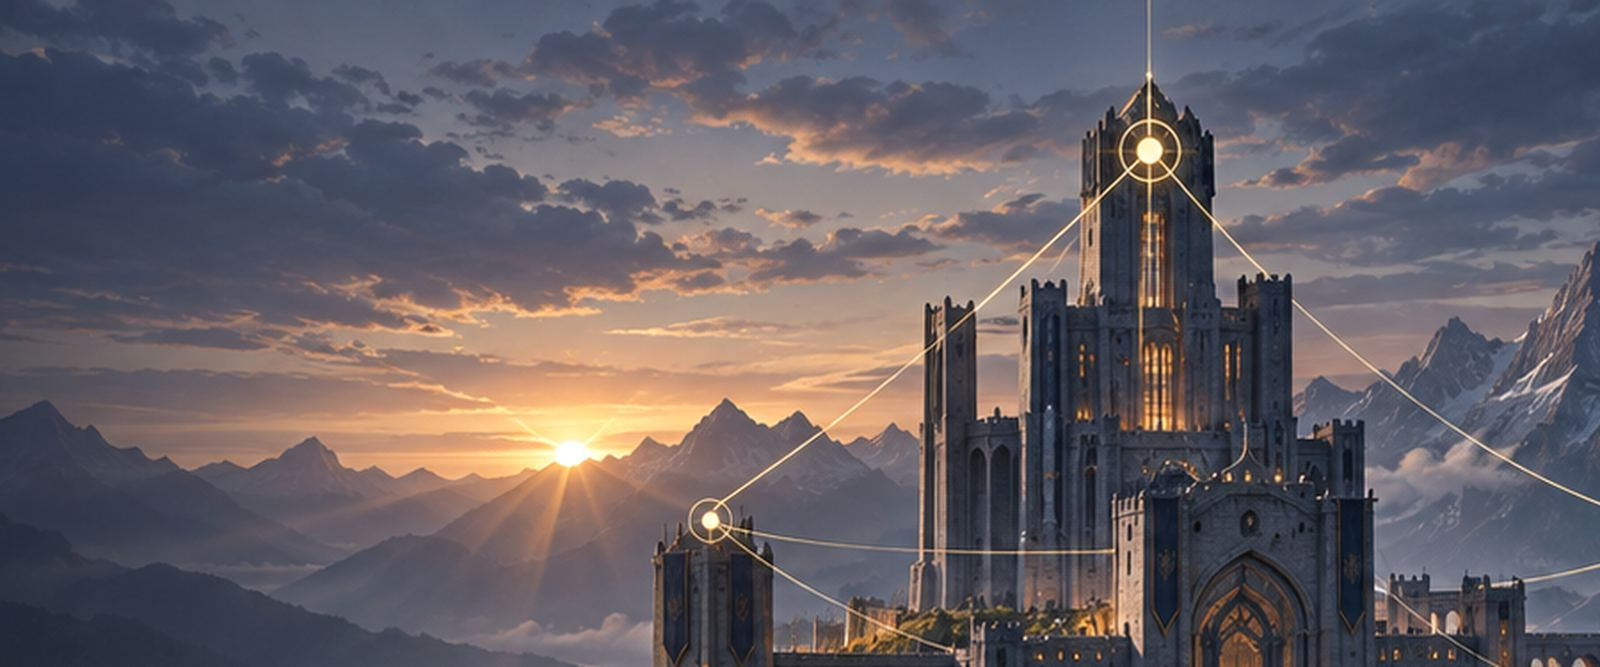
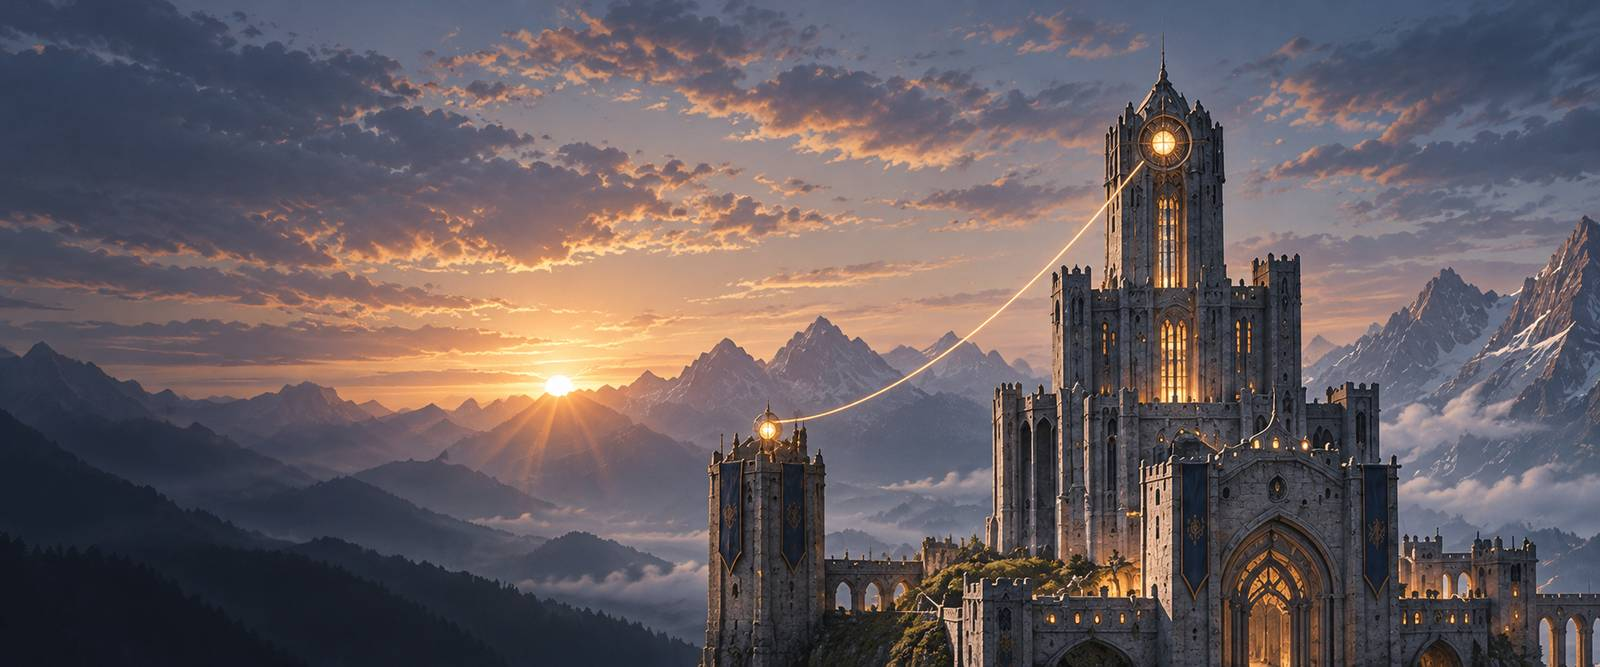
Bring parts 1 and 2 of the series to the series style
Keep the recognizable cover scenes while restoring their detail.
Add a sourced chronology and contract diagram, dated updates, and
approved context about the project's original world.
Align the series list, reading time, and release statistics.

Refs #276

diff --git a/notes/reviving-an-abandoned-mmo-server/index.html b/notes/reviving-an-abandoned-mmo-server/index.html
@@ -46,7 +46,7 @@
 </header>
 <div class="prose">
 <p>The last commit before mine landed on 15 July 2015. Its message was "README.md edited online with Bitbucket". Behind it lay nearly nine years of history: 8,044 commits by 24 people, starting in November 2006. They built an open-source server for Lineage II, an MMORPG whose Gracia Final client shipped in 2009. The upstream repositories are archived on GitHub now; one of them describes itself as the project "as it was when it was abandoned".</p>
-<p>I picked it up on 18 September 2026. Version 3.0.0 shipped on 11 October, twenty-four days later. This series is about what happened between those dates and why: which decisions I made, what each one cost, and how each one is checked.</p>
+<p>I picked it up on 18 September 2026 to see how far a 2009 codebase can be carried by today's engineering discipline. Version 3.0.0 shipped on 11 October, twenty-four days later. This series is about what happened between those dates and why: which decisions I made, what each one cost, and how each one is checked.</p>
 <h2>What I found</h2>
 <p>The code still compiled, mostly. It also carried every habit of a 2009 game server:</p>
 <ul>
@@ -84,6 +84,92 @@
 </tbody></table></div>
 <h2>The order of the work</h2>
 <p>Big rewrites fail because they change everything at once and prove nothing until the end. I went the other way: each step left a server that started and could be checked. The work came in two phases.</p>
+<figure class="series-diagram">
+<div class="arch timeline-graphic">
+<svg viewBox="0 0 1100 320" role="img" aria-labelledby="timeline-title timeline-desc" xmlns="http://www.w3.org/2000/svg">
+<title id="timeline-title">The order of the work</title>
+<desc id="timeline-desc">The first commit in 2006, the 2009 client and the last upstream commit in 2015. Eleven years of silence precede the revival in 2026: modernize in place, then Platform 3.0. Milestones are evenly spaced, not a linear time scale.</desc>
+<path class="wire" d="M 35 145 H 235 M 335 145 H 1065"/>
+<path class="timeline-silence" d="M 235 145 H 335"/>
+<text class="t t--small" x="285" y="285" text-anchor="middle">11 years of silence</text>
+<text class="t t--title" x="510" y="310" text-anchor="middle">modernize in place</text>
+<text class="t t--title" x="945" y="310" text-anchor="middle">Platform 3.0</text>
+<circle class="timeline-dot" cx="35" cy="145" r="5"/>
+<path class="wire" d="M 35 145 V 75"/>
+<text class="t" x="35" y="65" text-anchor="start">
+<tspan x="35" dy="0">First commit</tspan>
+<tspan x="35" dy="22">2006-11-15</tspan></text>
+<circle class="timeline-dot" cx="138" cy="145" r="5"/>
+<path class="wire" d="M 138 145 V 195"/>
+<text class="t" x="138" y="215" text-anchor="middle">
+<tspan x="138" dy="0">Gracia Final</tspan>
+<tspan x="138" dy="22">2009</tspan></text>
+<circle class="timeline-dot" cx="241" cy="145" r="5"/>
+<path class="wire" d="M 241 145 V 75"/>
+<text class="t" x="241" y="65" text-anchor="middle">
+<tspan x="241" dy="0">Last upstream</tspan>
+<tspan x="241" dy="19">commit</tspan>
+<tspan x="241" dy="22">2015-07-15</tspan></text>
+<circle class="timeline-dot" cx="344" cy="145" r="5"/>
+<path class="wire" d="M 344 145 V 195"/>
+<text class="t" x="344" y="215" text-anchor="middle">
+<tspan x="344" dy="0">Revival</tspan>
+<tspan x="344" dy="22">2026-09-18</tspan></text>
+<circle class="timeline-dot" cx="447" cy="145" r="5"/>
+<path class="wire" d="M 447 145 V 75"/>
+<text class="t" x="447" y="65" text-anchor="middle">
+<tspan x="447" dy="0">1.4.0</tspan>
+<tspan x="447" dy="22">2026-09-25</tspan></text>
+<circle class="timeline-dot" cx="550" cy="145" r="5"/>
+<path class="wire" d="M 550 145 V 195"/>
+<text class="t" x="550" y="215" text-anchor="middle">
+<tspan x="550" dy="0">1.5</tspan>
+<tspan x="550" dy="22">2026-09-29</tspan></text>
+<circle class="timeline-dot" cx="653" cy="145" r="5"/>
+<path class="wire" d="M 653 145 V 75"/>
+<text class="t" x="653" y="65" text-anchor="middle">
+<tspan x="653" dy="0">2.0.0</tspan>
+<tspan x="653" dy="22">2026-09-30</tspan></text>
+<circle class="timeline-dot" cx="756" cy="145" r="5"/>
+<path class="wire" d="M 756 145 V 195"/>
+<text class="t" x="756" y="215" text-anchor="middle">
+<tspan x="756" dy="0">2.5.0</tspan>
+<tspan x="756" dy="22">2026-10-05</tspan></text>
+<circle class="timeline-dot" cx="859" cy="145" r="5"/>
+<path class="wire" d="M 859 145 V 75"/>
+<text class="t" x="859" y="65" text-anchor="middle">
+<tspan x="859" dy="0">Platform 3.0</tspan>
+<tspan x="859" dy="19">decisions</tspan>
+<tspan x="859" dy="22">2026-10-05</tspan></text>
+<circle class="timeline-dot" cx="962" cy="145" r="5"/>
+<path class="wire" d="M 962 145 V 195"/>
+<text class="t" x="962" y="215" text-anchor="middle">
+<tspan x="962" dy="0">3.0.0</tspan>
+<tspan x="962" dy="22">2026-10-11</tspan></text>
+<circle class="timeline-dot" cx="1065" cy="145" r="5"/>
+<path class="wire" d="M 1065 145 V 75"/>
+<text class="t" x="1065" y="65" text-anchor="end">
+<tspan x="1065" dy="0">3.1.0 and 3.1.1</tspan>
+<tspan x="1065" dy="22">2026-10-12</tspan></text>
+</svg>
+</div>
+<ol class="timeline-detail">
+<li><time datetime="2006-11-15">2006-11-15</time> — First commit</li>
+<li><time datetime="2009">2009</time> — Gracia Final</li>
+<li><time datetime="2015-07-15">2015-07-15</time> — Last upstream commit</li>
+<li class="timeline-gap">Eleven years of silence</li>
+<li><time datetime="2026-09-18">2026-09-18</time> — Revival</li>
+<li><time datetime="2026-09-25">2026-09-25</time> — 1.4.0</li>
+<li><time datetime="2026-09-29">2026-09-29</time> — 1.5</li>
+<li><time datetime="2026-09-30">2026-09-30</time> — 2.0.0</li>
+<li><time datetime="2026-10-05">2026-10-05</time> — 2.5.0</li>
+<li><time datetime="2026-10-05">2026-10-05</time> — Platform 3.0 decisions</li>
+<li><time datetime="2026-10-11">2026-10-11</time> — 3.0.0</li>
+<li><time datetime="2026-10-12">2026-10-12</time> — 3.1.0 and 3.1.1</li>
+</ol>
+<figcaption>Modernize in place: September–5 October 2026. Platform 3.0: decisions on 5 October, releases on 11–12 October. Dates are UTC; milestone spacing is schematic.</figcaption>
+</figure>
+
 <p><strong>First, modernize in place.</strong> For two and a half weeks the server kept its shape: two processes on MySQL. A root build and CI on every push came first. Then a correctness program filed every defect as a broken invariant, one issue and one pull request each, and shipped as 1.4.0 on 25 September. The login moved to JDBC and both servers to Java 25 in 1.5 on 29 September. HikariCP, SLF4J, and a release with checksums, an attestation, and an SBOM followed in 2.0.0 on 30 September, and the test suite came back into CI in 2.5.0 on 5 October. The 2.x line was played on its real target, Windows with MySQL 8.4.</p>
 <p><strong>Then decide what 3.0 is.</strong> On 5 October the decisions for Platform 3.0 were recorded and the 2.x line was retired. The in-place line had done its job: the code was on a modern JDK, under tests, and released by a pipeline. What was left could not be fixed in place.</p>
 <p><strong>A walking skeleton.</strong> A Linux image on a pinned base with a pinned JRE, a Compose stack that published ports 2106 and 7777, and a probe that sent the first packet of the login protocol. It did almost nothing, but it did it the same way every time.</p>
@@ -103,7 +189,8 @@
 <p>Twenty-four people built it over nearly nine years. Twenty-four days rebuilt it. Twenty-four clients play it on every merge.</p>
 <p>The rest of the series takes one decision at a time:</p>
 <ol>
-<li><strong>One process, hard boundaries</strong>: two modules in one JVM that still cannot see each other.</li>
+<li><a href="/l2jfree/notes/one-process-hard-boundaries/"><strong>One process, hard boundaries</strong></a>: two modules in one JVM that still cannot see each other.</li>
+<li><a href="/l2jfree/notes/an-island-of-our-own/"><strong>An island of our own</strong></a>: how the server left an inherited world for one it wrote.</li>
 <li><strong>One save, one transaction</strong>: how a player and their items reach the database together or not at all.</li>
 <li><strong>Every merge is a release rehearsal</strong>: what the pipeline does to an image before it may be published.</li>
 <li><strong>Releases promote, never rebuild</strong>: why the release workflow has no build step.</li>
@@ -111,6 +198,7 @@
 <li><strong>Old bugs, new invariants</strong>: the classes of defects a 2009 server carries, and the checks that keep them out.</li>
 </ol>
 <p>The code is at <a href="https://github.com/l2go/l2jfree">github.com/l2go/l2jfree</a>, under GPLv3.</p>
+<div class="aside"><strong>Update, 16 October 2026.</strong> Version 3.2.0 went a step past a revival: the server no longer ships the world it inherited, and it runs a small original one instead. That turn is part 3, <a href="/l2jfree/notes/an-island-of-our-own/">An island of our own</a>.</div>
 </div>
 <nav class="series" aria-label="Series">
 <span></span>

diff --git a/notes/one-process-hard-boundaries/index.html b/notes/one-process-hard-boundaries/index.html
@@ -71,6 +71,48 @@
 	void kick(String account);
 	void expect(String clientIp);
 }</code></pre>
+<figure class="series-diagram">
+<div class="arch contract-graphic">
+<svg viewBox="0 0 740 600" role="img" aria-labelledby="roles-title roles-desc" xmlns="http://www.w3.org/2000/svg">
+<title id="roles-title">One contract, separate database roles</title>
+<desc id="roles-desc">Platform wires login and world through the contract. World calls LoginPort: admit, leave, changeAccessLevel. Login calls WorldPort: status, addressFor, kick, expect. The login role reaches the login schema; the world role reaches world, catalog and report.</desc>
+<defs><marker id="roles-arrow" viewBox="0 0 10 10" refX="9" refY="5" markerWidth="7" markerHeight="7" orient="auto-start-reverse"><path class="diagram-arrow" d="M 0 0 L 10 5 L 0 10 Z"/></marker></defs>
+<rect class="node" x="250" y="10" width="240" height="55" rx="6"/>
+<text class="t" x="370" y="45" text-anchor="middle">platform</text>
+<path class="wire diagram-directed" d="M 270 65 L 120 140 M 470 65 L 620 140"/>
+<rect class="node" x="15" y="140" width="180" height="160" rx="6"/>
+<text class="t" x="105" y="225" text-anchor="middle">login</text>
+<rect class="node" x="545" y="140" width="180" height="160" rx="6"/>
+<text class="t" x="635" y="225" text-anchor="middle">world</text>
+<rect class="frame" x="220" y="100" width="300" height="240" rx="6"/>
+<text class="t t--title" x="370" y="128" text-anchor="middle">contract</text>
+<path class="wire diagram-directed" d="M 545 170 H 195"/>
+<text class="t" x="370" y="160" text-anchor="middle">LoginPort</text>
+<text class="t t--small" x="370" y="195" text-anchor="middle">admit · leave · changeAccessLevel</text>
+<path class="wire diagram-directed" d="M 195 260 H 545"/>
+<text class="t" x="370" y="250" text-anchor="middle">WorldPort</text>
+<text class="t t--small" x="370" y="285" text-anchor="middle">status · addressFor · kick · expect</text>
+<path class="wire wire--db diagram-directed" d="M 105 300 V 385 M 635 300 V 385"/>
+<text class="t t--db" x="105" y="370" text-anchor="middle">l2jfree_login</text>
+<text class="t t--db" x="635" y="370" text-anchor="middle">l2jfree_world</text>
+<rect class="db" x="20" y="390" width="170" height="55" rx="6"/>
+<text class="t t--db" x="105" y="423" text-anchor="middle">login</text>
+<rect class="db" x="550" y="390" width="170" height="160" rx="6"/>
+<text class="t t--db" x="635" y="423" text-anchor="middle">world</text>
+<text class="t t--db" x="635" y="473" text-anchor="middle">catalog</text>
+<text class="t t--db" x="635" y="523" text-anchor="middle">report</text>
+</svg>
+</div>
+<dl class="contract-detail">
+<dt>platform</dt><dd>Wires login and world through contract.</dd>
+<dt>world → LoginPort → login</dt><dd>admit, leave, changeAccessLevel</dd>
+<dt>login → WorldPort → world</dt><dd>status, addressFor, kick, expect</dd>
+<dt>l2jfree_login → login</dt><dd>The login database role and its schema.</dd>
+<dt>l2jfree_world → world, catalog, report</dt><dd>The world database role and its schemas.</dd>
+</dl>
+<figcaption>Calls cross the typed contract; database access stays within each module's role. Interface names and roles are from release 3.1.1.</figcaption>
+</figure>
+
 <p>That is the whole conversation between the two halves of the server. <code>admit</code> is atomic: when it admits an account, the account counts as in the world and its login session closes, so a second admission of the same account is refused. What used to be a packet exchange with its own failure modes is now a method call with a return value.</p>
 <p>A <code>platform</code> module starts both, wires each to the other's port, and assembles the one distribution. It is the only code that knows both modules exist.</p>
 <h2>Keeping the modules apart</h2>
@@ -105,6 +147,7 @@
 <li>The removed pieces cannot come back unnoticed: <a href="https://github.com/l2go/l2jfree/blob/v3.1.1/l2jfree-platform/src/test/java/com/l2jfree/platform/RemovedLibrariesTest.java"><code>RemovedLibrariesTest</code></a> refuses MySQL, Liquibase, Javolution, Trove, and the old MMOCore network layer that Netty replaced.</li>
 </ul>
 <p>The result is a modular monolith in the plain sense of the words: one thing to deploy, two things to reason about, and a build that keeps them two.</p>
+<div class="aside"><strong>Update, 16 October 2026.</strong> In 3.2 the same idea, a boundary that a check keeps in place, separated the engine from its game world: the world became a directory the engine is pointed at. See part 3, <a href="/l2jfree/notes/an-island-of-our-own/">An island of our own</a>.</div>
 </div>
 <nav class="series" aria-label="Series">
 <a href="/l2jfree/notes/reviving-an-abandoned-mmo-server/"><small>Previous</small><span>Reviving an abandoned MMO server: 2009 → 2026</span></a>

diff --git a/index.html b/index.html
@@ -118,7 +118,7 @@
       <div class="stat"><b>2006</b><span>First commit</span></div>
       <div class="stat"><b>8,044</b><span>Commits inherited</span></div>
       <div class="stat"><b>24</b><span>Days to 3.0.0</span></div>
-      <div class="stat"><b>8</b><span>Releases in 18 days</span></div>
+      <div class="stat"><b>9</b><span>Releases in 21 days</span></div>
     </div>
   </div>
 </div>
@@ -278,11 +278,11 @@
   <div class="wrap">
     <p class="kicker reveal">Engineering notes</p>
     <h2 id="notes-title" class="reveal">Reviving L2JFree</h2>
-    <p class="intro reveal">One decision at a time: the problem, the decision, what it cost, and how it is checked.</p>
+    <p class="intro reveal">One decision at a time: the problem, the decision, what it cost, and how it is checked. The first notes revive the platform; from 3.2 on, it runs a world of its own.</p>
     <div class="notes">
       <a class="note reveal" href="/l2jfree/notes/reviving-an-abandoned-mmo-server/">
         <div class="note__img"><picture><source srcset="/l2jfree/assets/img/covers/reviving.webp" type="image/webp"><img src="/l2jfree/assets/img/covers/reviving.jpg" alt="" loading="lazy" width="1600" height="667"></picture></div>
-        <div class="note__body"><div class="note__meta">Part 1 · 6 min</div><h3>Reviving an abandoned MMO server: 2009 → 2026</h3><p>What twenty-four days changed in a codebase silent since 2015, in what order, and at what price.</p></div>
+        <div class="note__body"><div class="note__meta">Part 1 · 7 min</div><h3>Reviving an abandoned MMO server: 2009 → 2026</h3><p>What twenty-four days changed in a codebase silent since 2015, in what order, and at what price.</p></div>
       </a>
       <a class="note reveal" href="/l2jfree/notes/one-process-hard-boundaries/">
         <div class="note__img"><picture><source srcset="/l2jfree/assets/img/covers/boundaries.webp" type="image/webp"><img src="/l2jfree/assets/img/covers/boundaries.jpg" alt="" loading="lazy" width="1600" height="667"></picture></div>

diff --git a/assets/css/site.css b/assets/css/site.css
@@ -425,3 +425,21 @@ code { font-family: var(--mono); font-size: .9em; }
 .island-map .map-label, .island-map .map-number { fill: #f1e4c6; font: 18px var(--sans); }
 .island-map figcaption { margin: .8rem 0; font: .85rem/1.6 var(--sans); }
 .island-map .map-key { font: .9rem/1.6 var(--sans); }
+
+/* Series diagrams share the architecture palette and stay legible on small screens. */
+.series-diagram { margin: 2rem 0; }
+.series-diagram .arch { padding: .75rem; background: #0a0b12; }
+.series-diagram figcaption { margin: .8rem 0; font: .85rem/1.6 var(--sans); }
+.series-diagram .diagram-directed { marker-end: url(#roles-arrow); }
+.series-diagram .diagram-arrow, .series-diagram .timeline-dot { fill: #f6d58e; }
+.series-diagram .timeline-silence { fill: none; stroke: #222635; stroke-width: 7; stroke-dasharray: 4 10; }
+.timeline-detail, .contract-detail { display: none; }
+@media (max-width: 600px) {
+  .timeline-graphic, .contract-graphic { display: none; }
+  .prose .timeline-detail { display: block; border-left: 2px solid var(--gold-lo); padding-left: 1.4rem; list-style: none; }
+  .timeline-detail time { font-weight: 600; }
+  .timeline-detail .timeline-gap { padding: 1rem 0; opacity: .7; }
+  .contract-detail { display: block; font: .95rem/1.6 var(--sans); }
+  .contract-detail dt { margin-top: 1rem; font-weight: 600; overflow-wrap: anywhere; }
+  .contract-detail dd { margin: .3rem 0 1rem; }
+}
